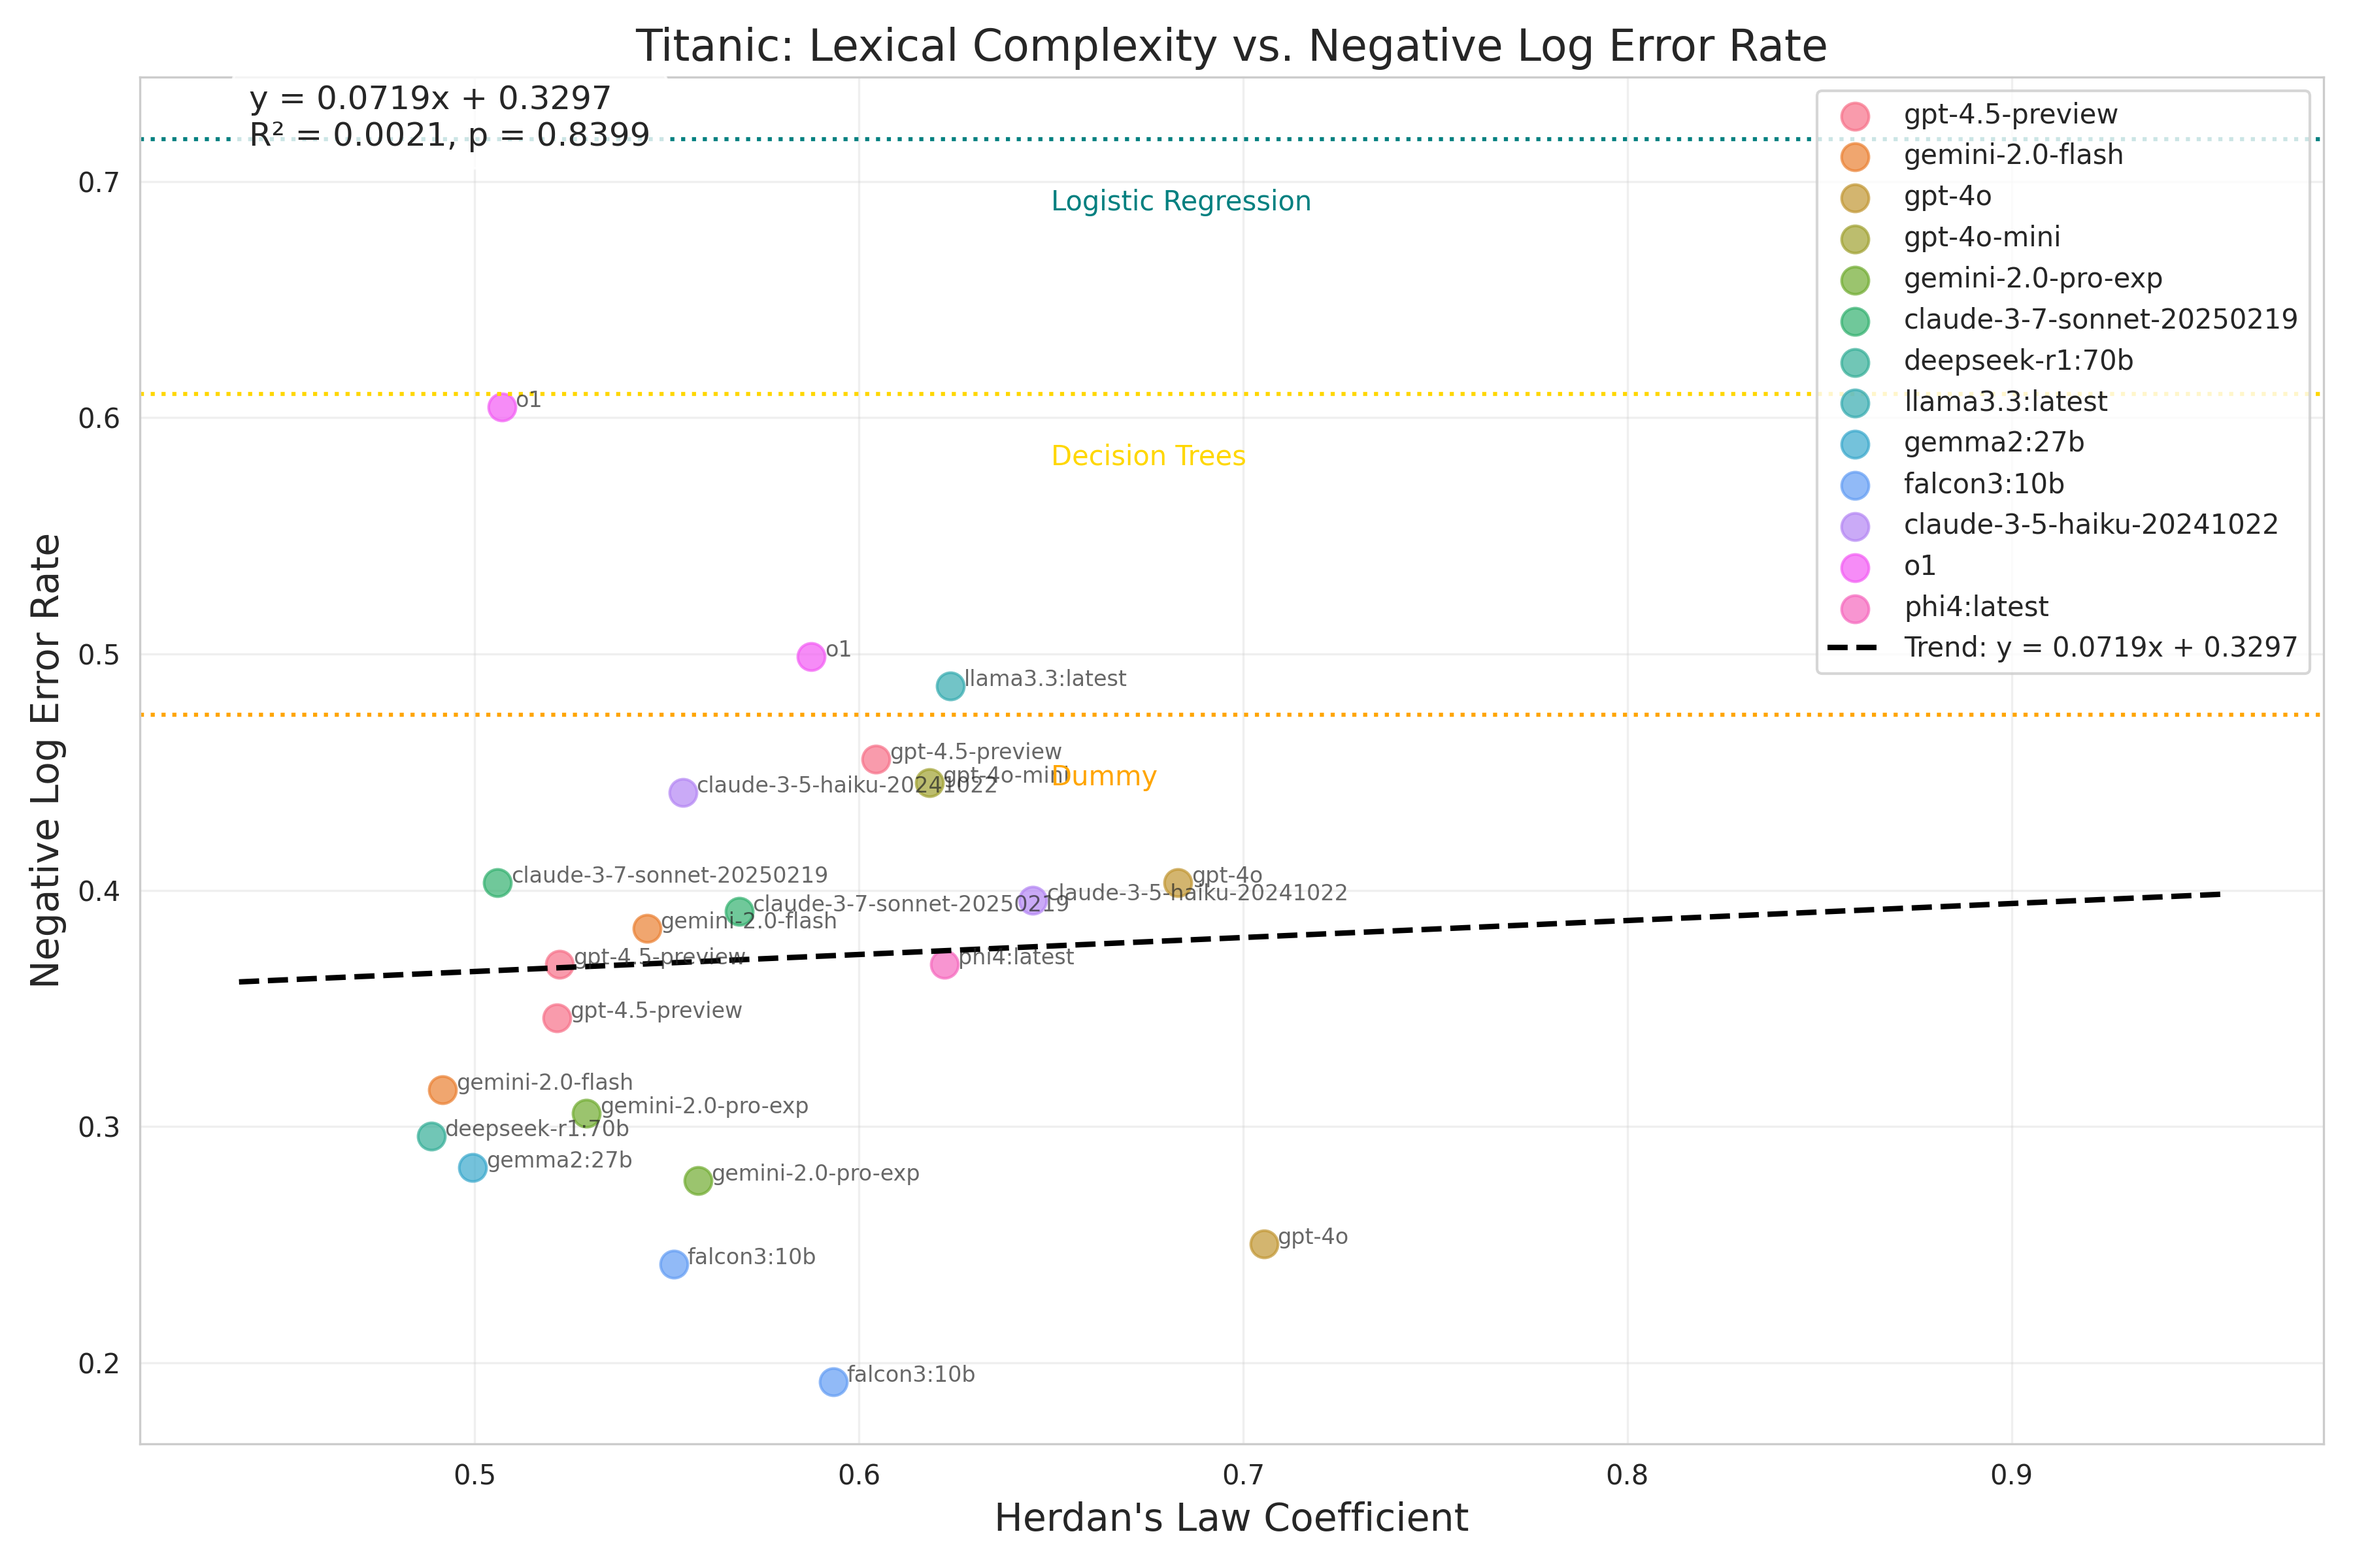
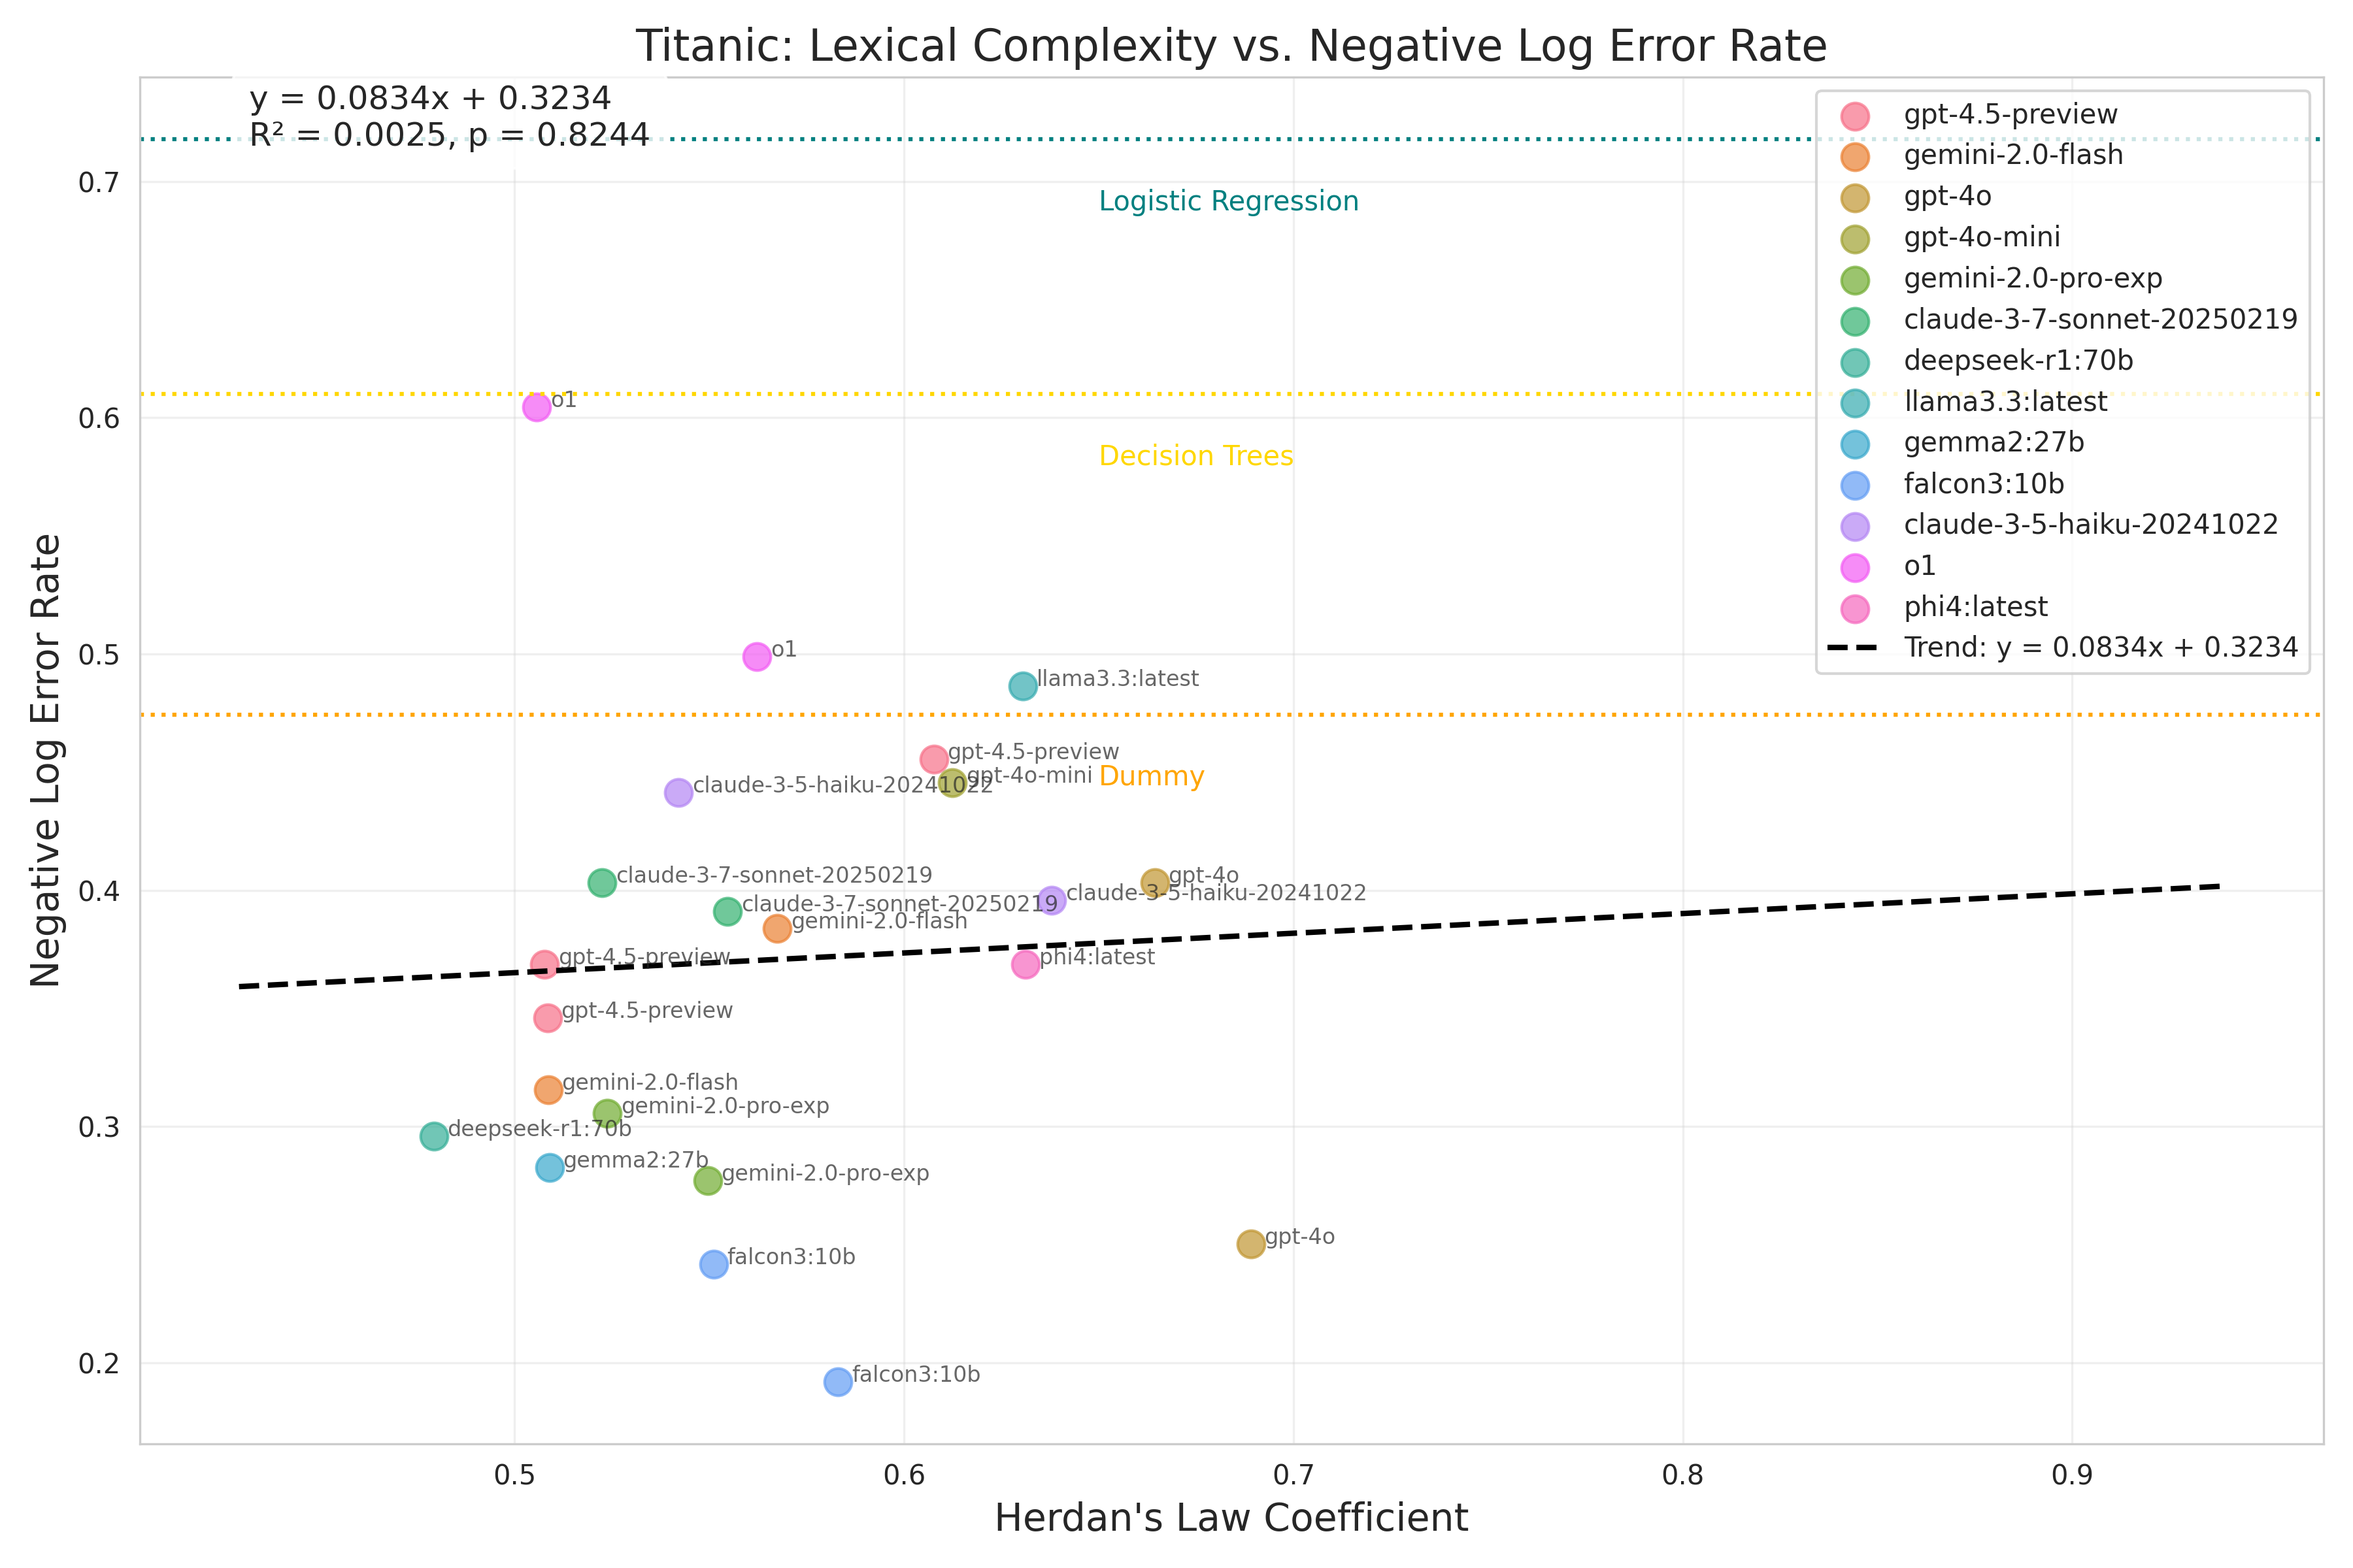
Latest experimental results

diff --git a/outputs/herdan-model-size-definitions.tex b/outputs/herdan-model-size-definitions.tex
@@ -1,3 +1,3 @@
-\newcommand{\herdansizetrend}{-0.022}
-\newcommand{\herdansizetrendpvalue}{0.073}
-\newcommand{\herdanaveragecorrelation}{0.45}
+\newcommand{\herdansizetrend}{-0.023}
+\newcommand{\herdansizetrendpvalue}{0.050}
+\newcommand{\herdanaveragecorrelation}{0.51}

diff --git a/outputs/southgermancredit_error_rate_by_herdan_slope.tex b/outputs/southgermancredit_error_rate_by_herdan_slope.tex
@@ -1,1 +1,1 @@
--0.211
+-0.241

diff --git a/outputs/southgermancredit_error_rate_by_herdan_pvalue.tex b/outputs/southgermancredit_error_rate_by_herdan_pvalue.tex
@@ -1,1 +1,1 @@
-0.341
+0.274

diff --git a/outputs/titanic_error_rate_by_herdan_pvalue.tex b/outputs/titanic_error_rate_by_herdan_pvalue.tex
@@ -1,1 +1,1 @@
-0.840
+0.824

diff --git a/outputs/titanic_error_rate_by_herdan_slope.tex b/outputs/titanic_error_rate_by_herdan_slope.tex
@@ -1,1 +1,1 @@
-0.072
+0.083

diff --git a/outputs/wisconsin_error_rate_by_herdan_pvalue.tex b/outputs/wisconsin_error_rate_by_herdan_pvalue.tex
@@ -1,1 +1,1 @@
-0.019
+0.034

diff --git a/outputs/wisconsin_error_rate_by_herdan_slope.tex b/outputs/wisconsin_error_rate_by_herdan_slope.tex
@@ -1,1 +1,1 @@
-1.546
+1.467
